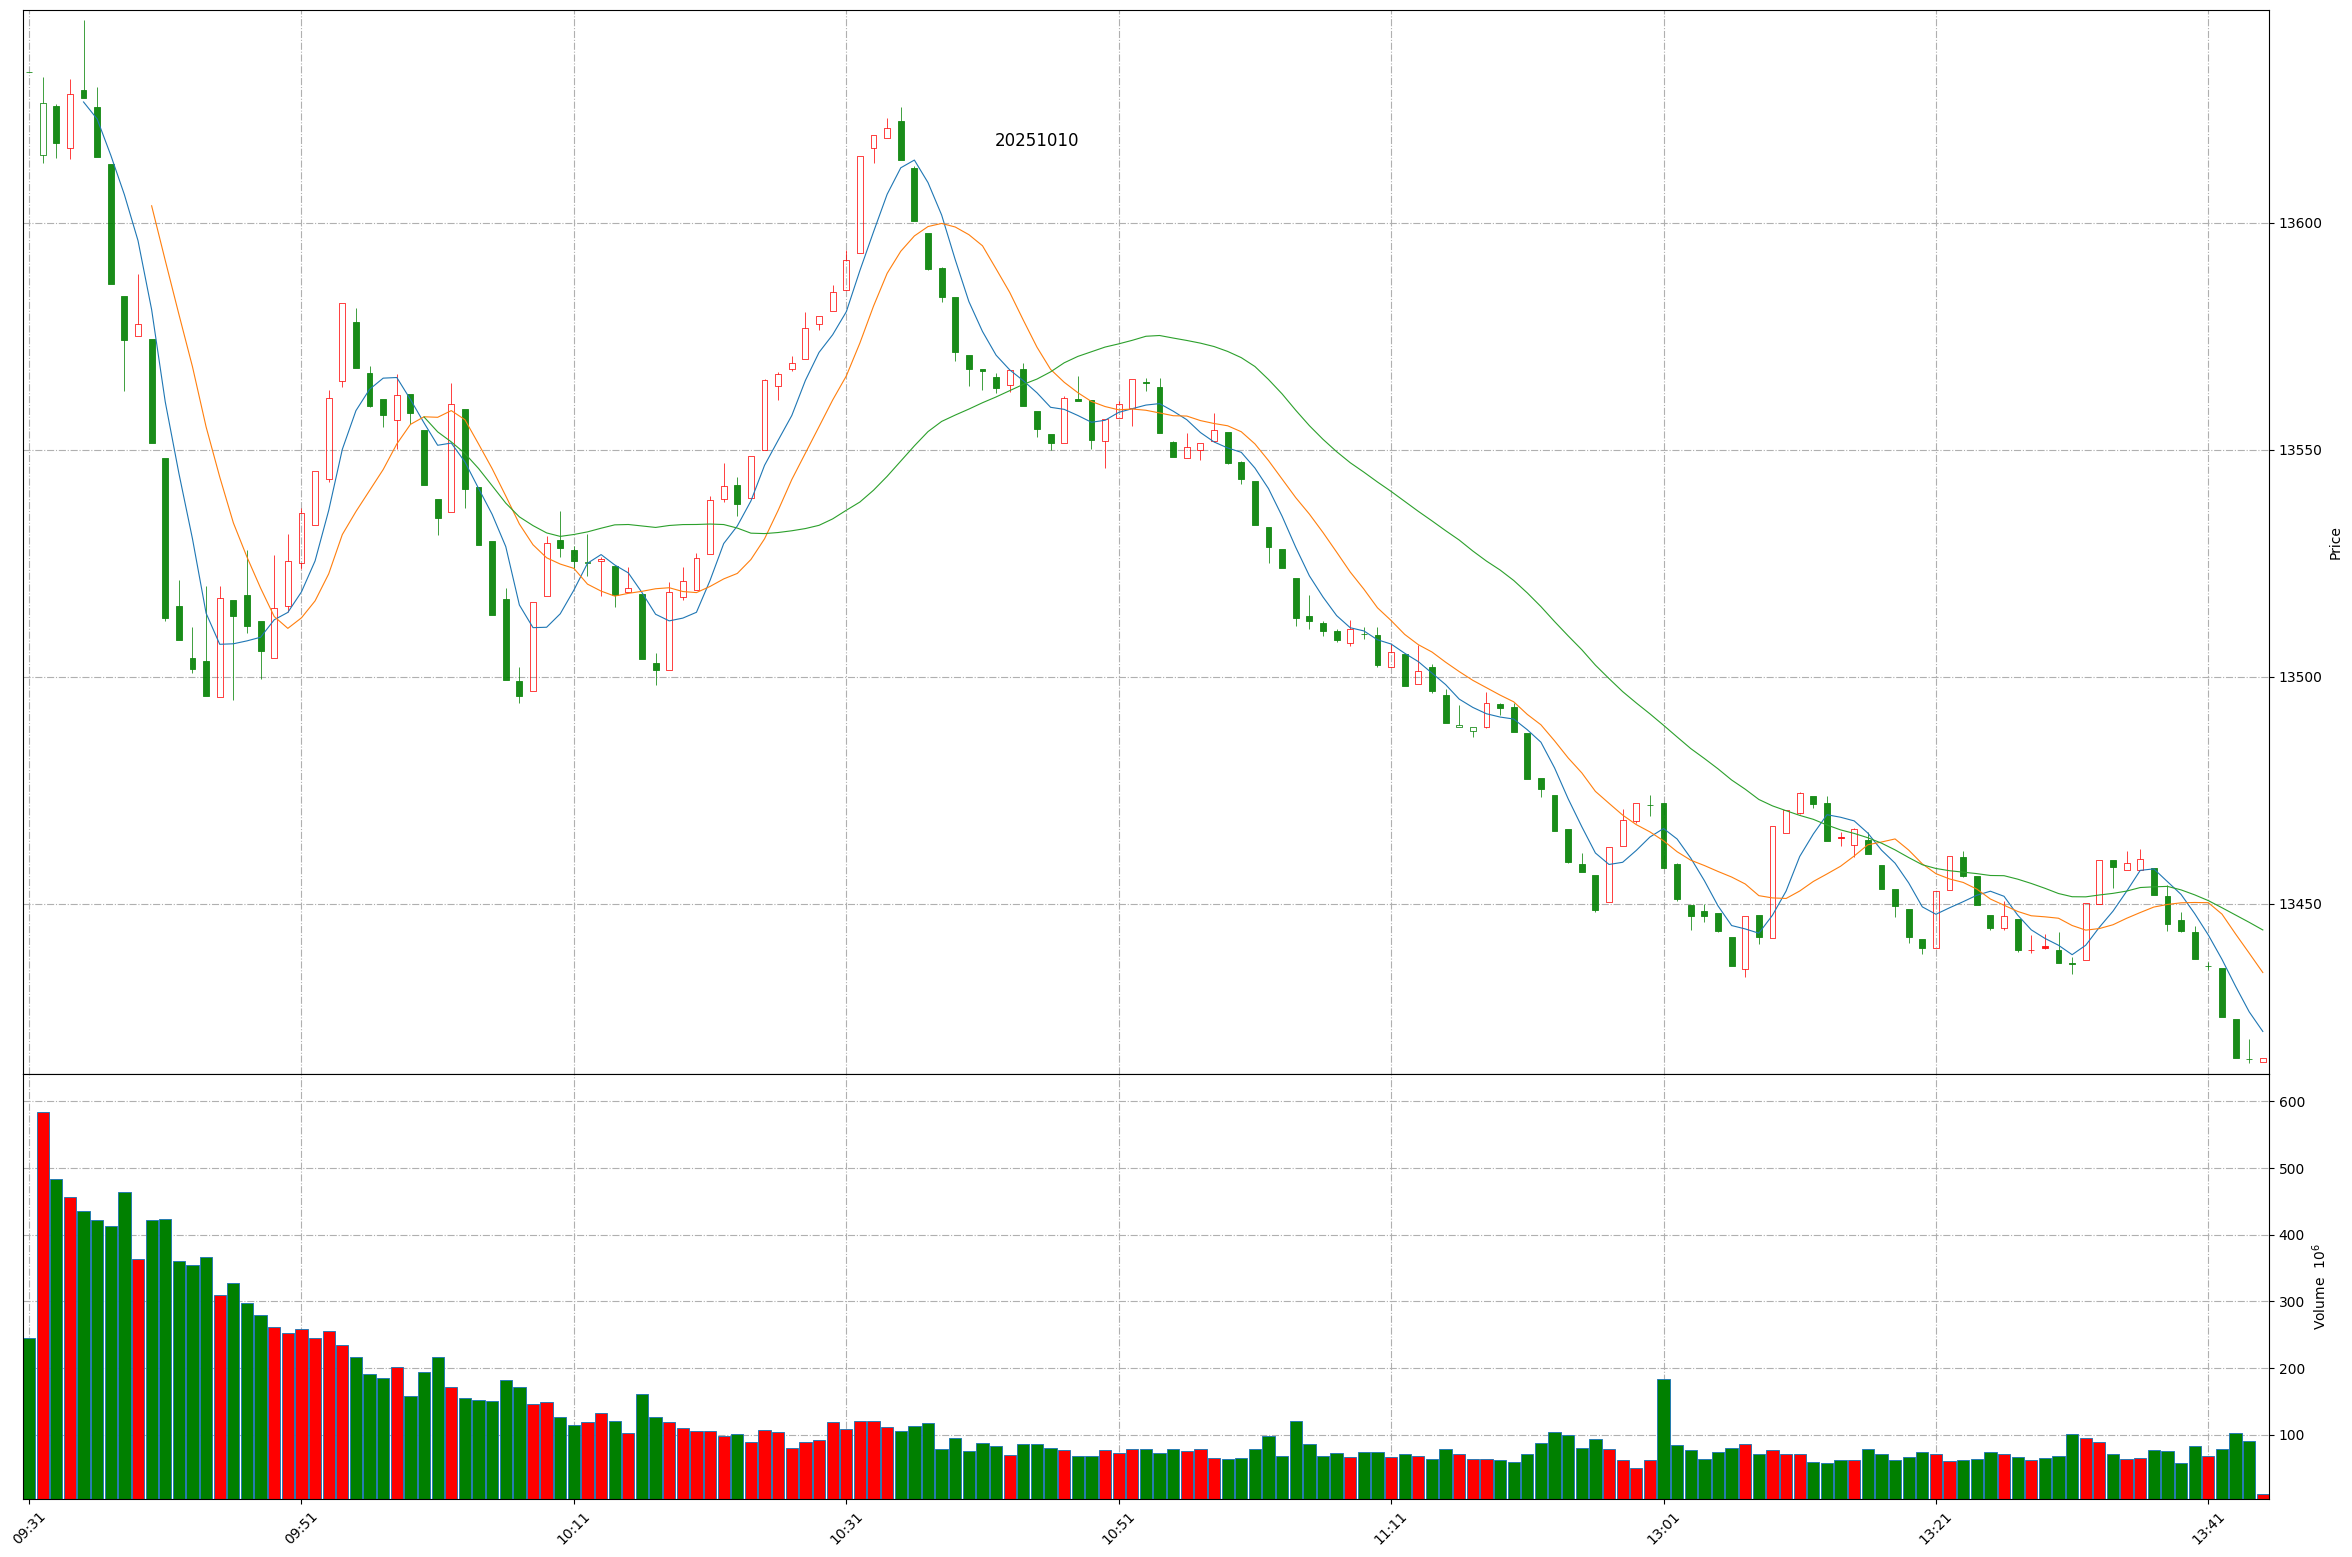
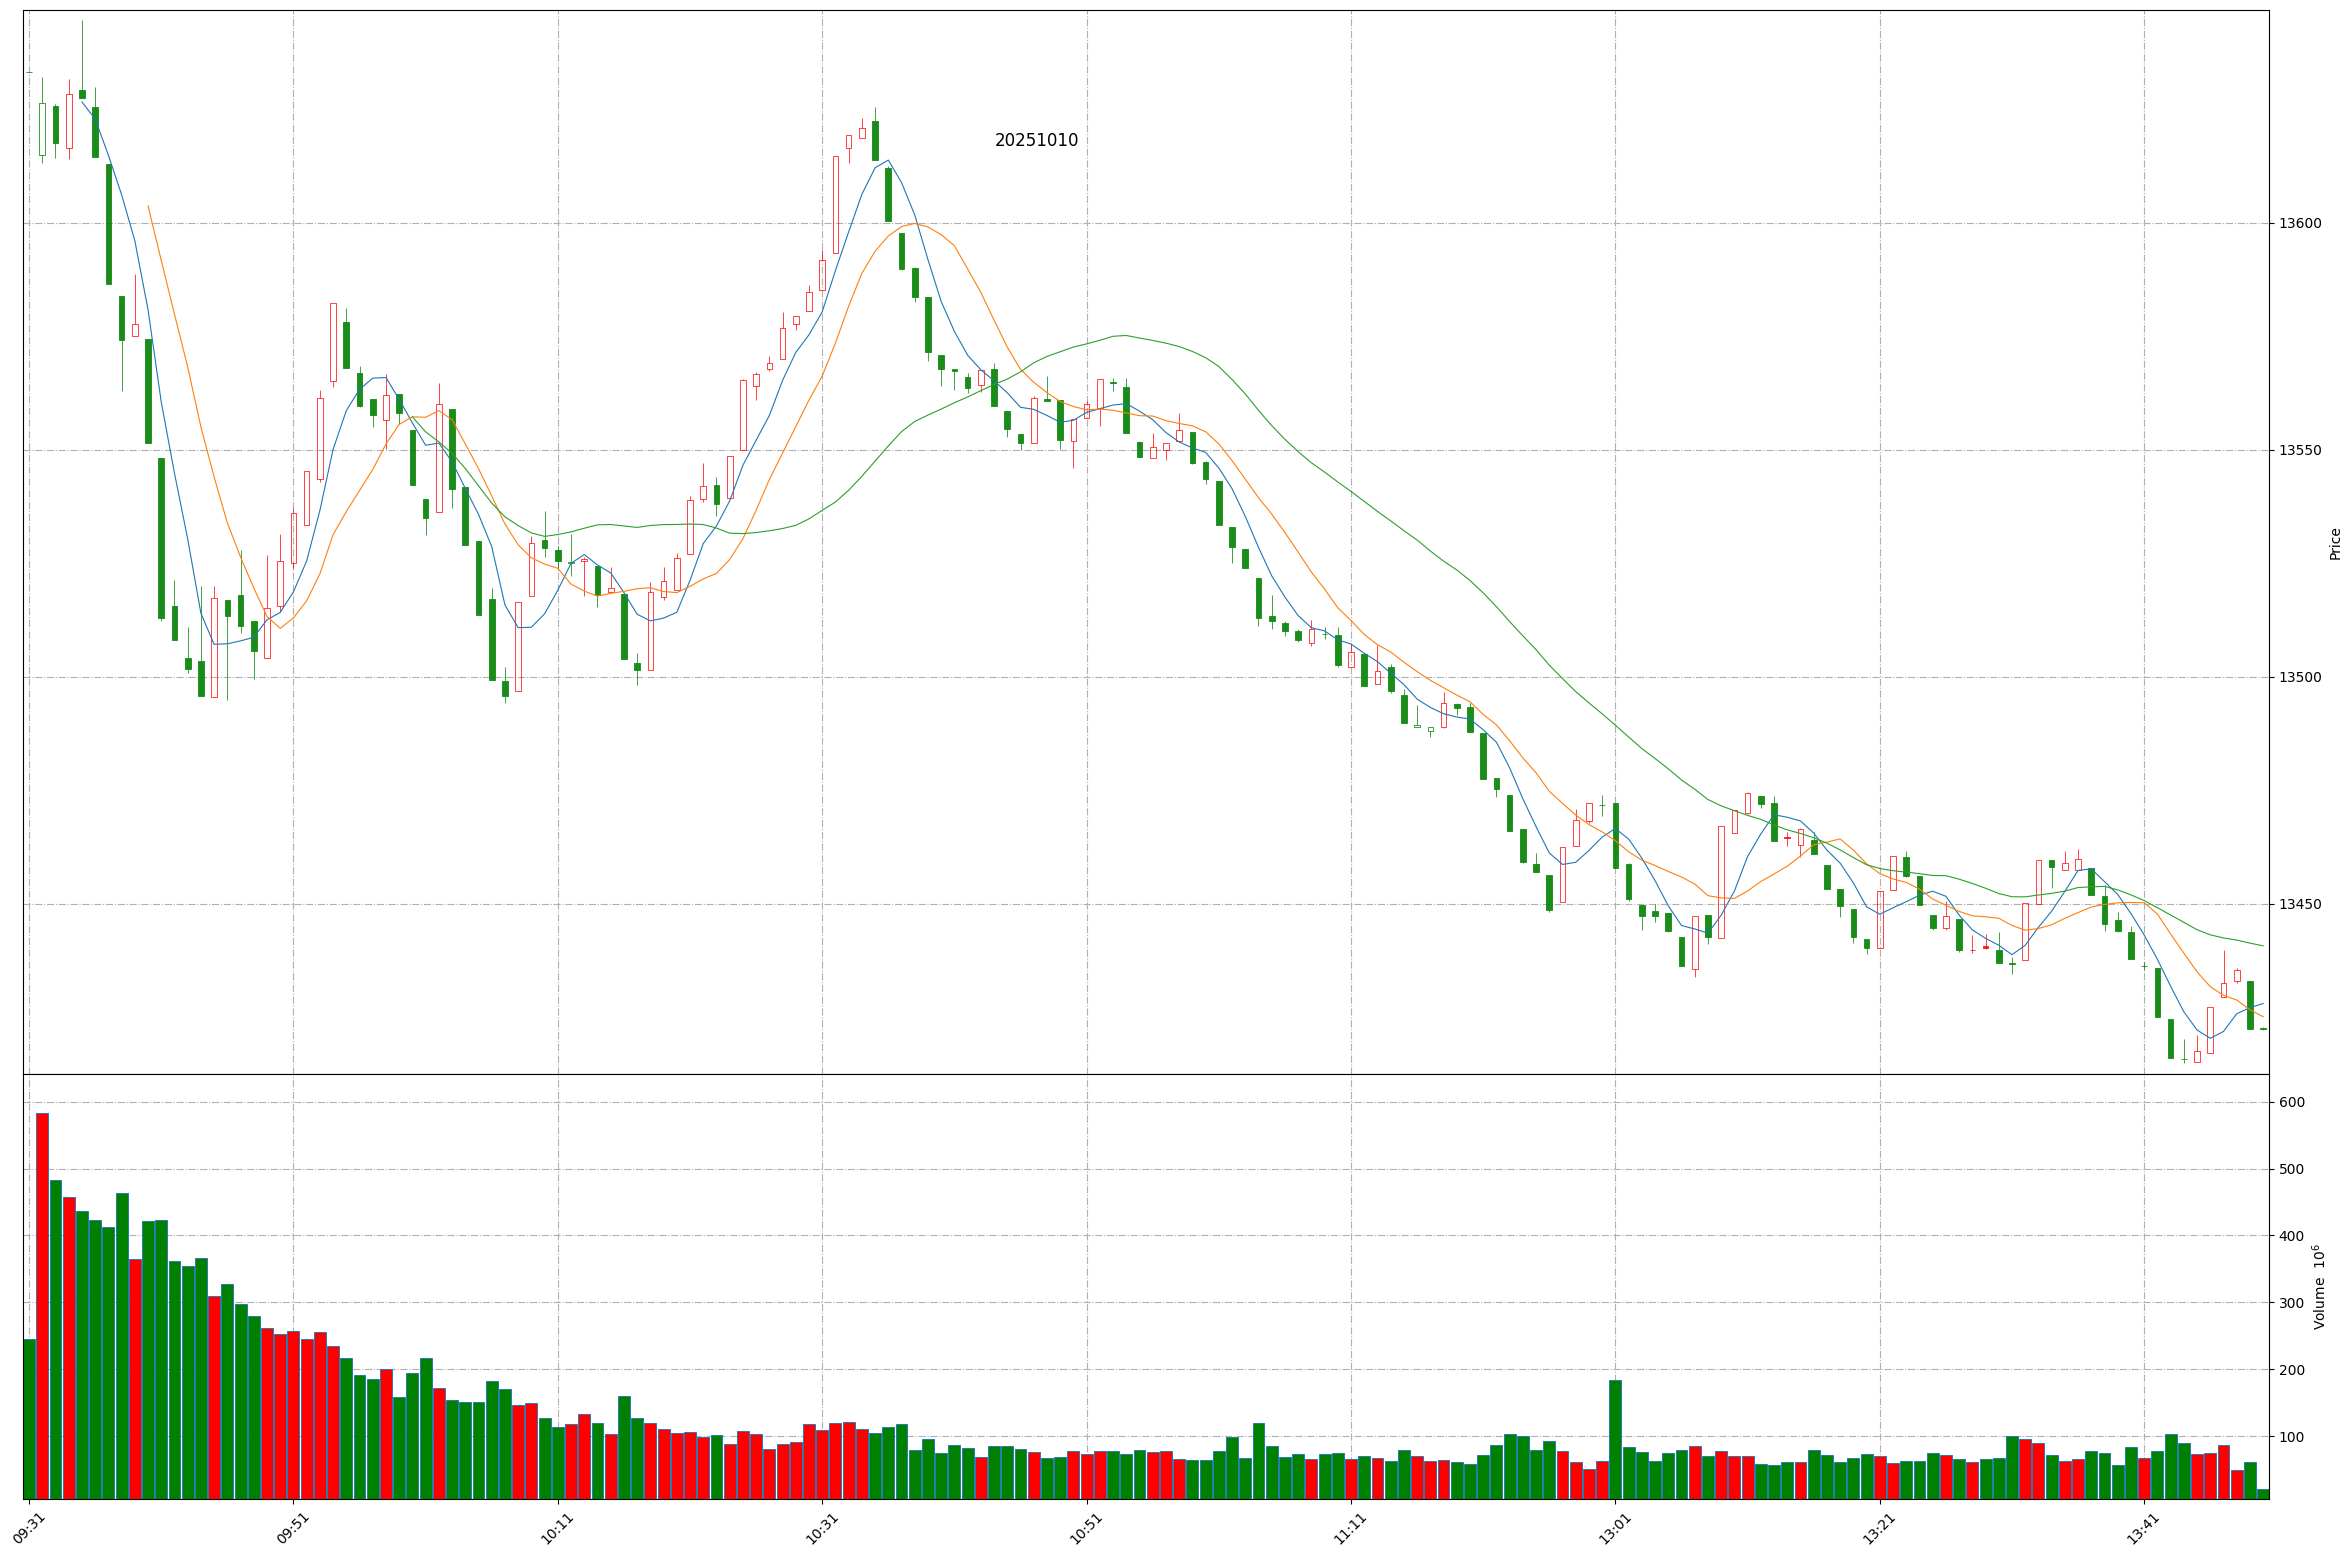
Github action update at 2025-10-10 13:49:34.

diff --git a/README.md b/README.md
@@ -1,11 +1,11 @@
 
 # Daily-A-share-market-quotes 每日 A 股指数（5min 更新）- 20251010
 
-### 上证指数 20251010 13:44
+### 上证指数 20251010 13:49
 ![](./fig/2025/10/20251010-sh000001.png)
 
-### 深证成指 20251010 13:44
+### 深证成指 20251010 13:49
 ![](./fig/2025/10/20251010-sz399001.png)
 
-### 北证50 20251010 13:44
+### 北证50 20251010 13:49
 ![](./fig/2025/10/20251010-bj899050.png)
